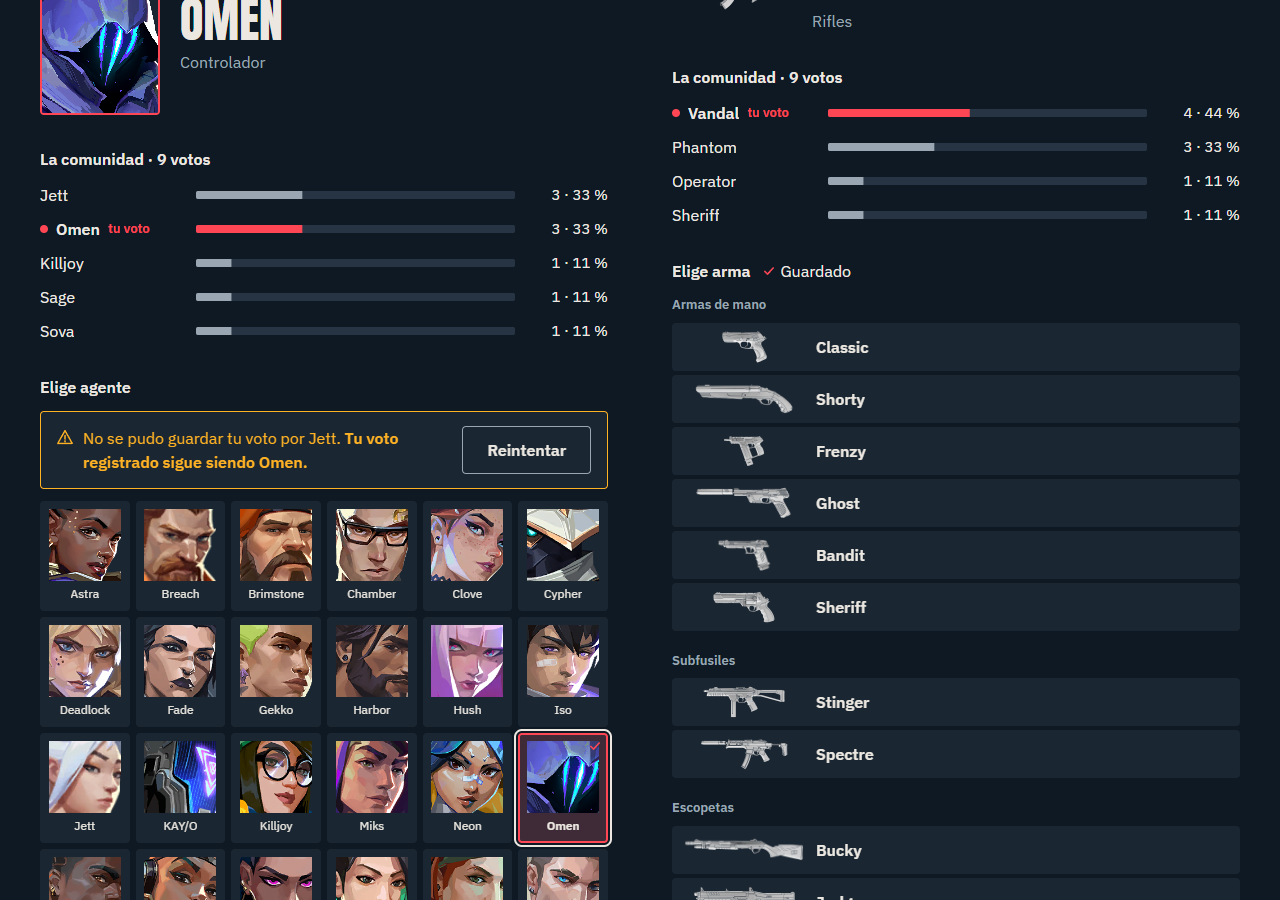
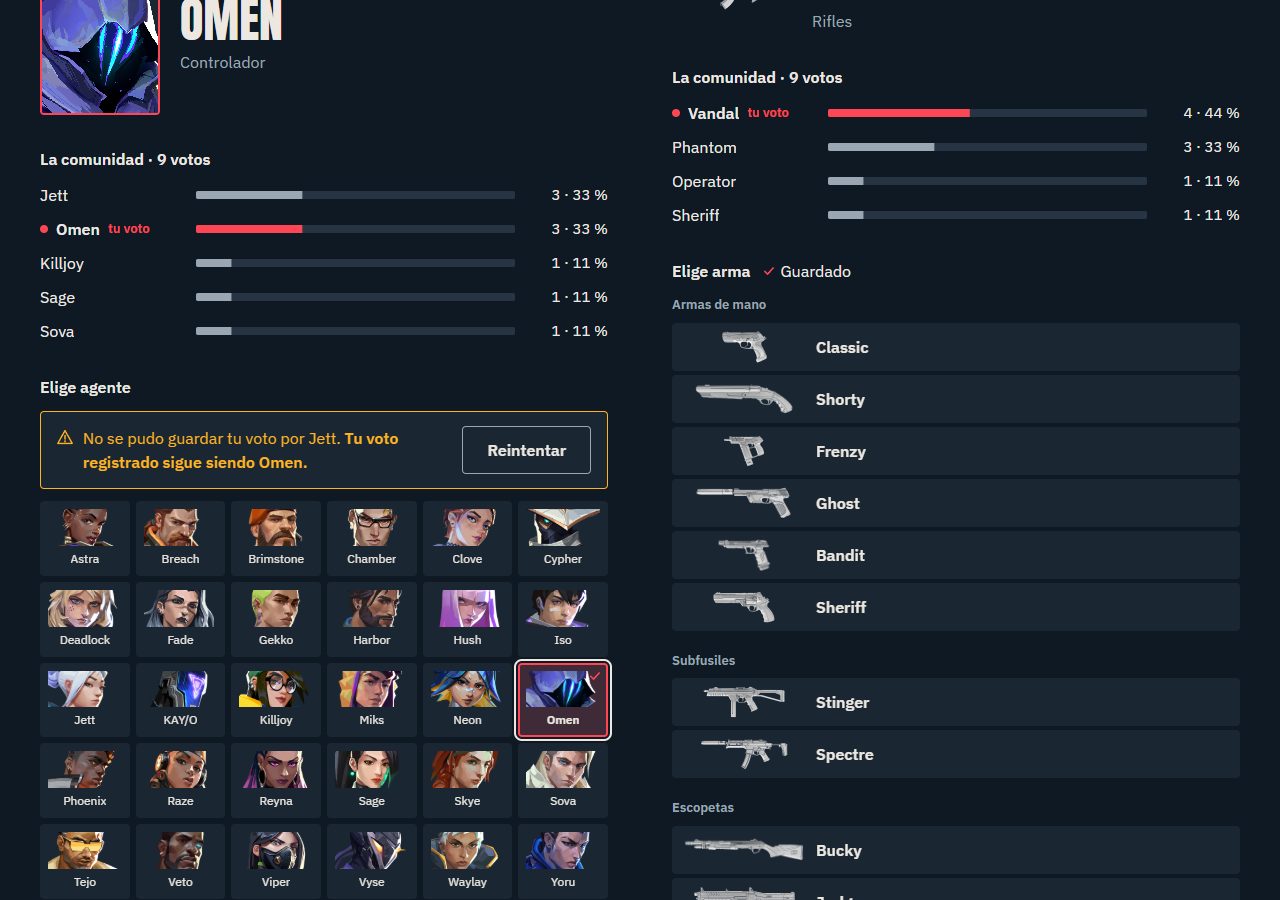
docs: README más completo y capturas actualizadas
Inicio rápido con la URL real y nota de Windows, cómo crear cuenta,
funcionalidades, stack, resumen de la API, solución de problemas y uso
de IA. Capturas regeneradas tras el login centrado y las caras completas.

Changed region(s): [[0.0312, 0.56, 0.5, 1.0]]

diff --git a/README.md b/README.md
@@ -1,57 +1,97 @@
 # Valorant Community
 
-Aplicación web para que la comunidad de VALORANT vote, en cada mapa competitivo, el mejor agente y la mejor arma, y consulte cómo se reparten los votos.
+Aplicación web para que la comunidad de VALORANT vote, en cada mapa competitivo, **el mejor agente y la mejor arma**, y vea cómo se reparten los votos.
 
-Prueba técnica full stack para Lucidbot: monorepo con **NestJS** (API) y **React + Vite** (web), **PostgreSQL**, **Docker Compose** y datos del juego de [Valorant API](https://valorant-api.com/).
+Prueba técnica full stack para Lucidbot: monorepo con **NestJS** (API) y **React + Vite** (web), **PostgreSQL**, **Docker Compose** y datos reales del juego de [Valorant API](https://valorant-api.com/).
 
-- Cualquier visitante explora los mapas y consulta los resultados. Para votar hay que crear una cuenta e iniciar sesión.
-- Cada usuario tiene una elección de agente y otra de arma por mapa, y puede cambiarlas por separado. Repetir el voto no suma; cambiarlo mueve el voto de la opción anterior a la nueva.
+![Detalle de Ascent tras cambiar el voto de agente a Omen](docs/capturas/escritorio-voto-cambiado.png)
 
-## Requisitos
+## Inicio rápido
 
-- Docker con Docker Compose v2 (Docker Desktop en Windows y macOS).
-- Puertos libres en tu máquina: `8080` (web) y `5433` (PostgreSQL, solo en `localhost`). Ambos se pueden cambiar en `.env`.
-- Conexión a internet: la API descarga el catálogo de Valorant API y el navegador carga las imágenes desde `media.valorant-api.com`.
-
-Para desarrollar o ejecutar las pruebas fuera de Docker hacen falta además Node.js 22 o superior y pnpm 11.
-
-## Puesta en marcha
+Solo necesitas **Docker** (Docker Desktop en Windows y macOS) y conexión a internet.
 
 ```bash
-git clone <url-del-repositorio> valorant-community
+git clone https://github.com/yhonaMC/valorant-community.git
 cd valorant-community
-cp .env.example .env
+cp .env.example .env          # en PowerShell o cmd: copy .env.example .env
 docker compose up --build --wait
 ```
 
-Abre <http://localhost:8080>.
+Abre **<http://localhost:8080>**.
 
-`--wait` devuelve el control cuando la base de datos, la API y la web están sanas. La API aplica las migraciones al arrancar; no hay pasos manuales.
+- `--wait` devuelve el control cuando la base de datos, la API y la web están sanas. Las migraciones se aplican solas al arrancar.
+- No hay usuarios precargados: pulsa **«Crear cuenta»** y usa un email con un dominio real (por ejemplo `@gmail.com`); la contraseña debe tener entre 8 y 72 caracteres.
+- Para parar: `docker compose down`. Para borrar también los datos: `docker compose down -v`.
 
-Para pararlo: `docker compose down`. Para borrar también los datos: `docker compose down -v`.
+### Recorrido sugerido (2 minutos)
 
-### Recorrido sugerido
+1. En la portada, elige un mapa. Sin sesión ya ves los resultados.
+2. Pulsa un agente: te lleva a crear una cuenta y luego te devuelve a ese mapa.
+3. Vota un agente y un arma; los recuentos y las barras se actualizan con la respuesta del servidor.
+4. Vuelve a pulsar el mismo agente: no suma. Elige otro: el voto se mueve del anterior al nuevo y el arma no cambia.
+5. Recarga la página o reinicia los contenedores: tu elección se conserva.
 
-1. En la portada, elige un mapa.
-2. Pulsa un agente: como no tienes sesión, te lleva a crear una cuenta y luego te devuelve a ese mapa.
-3. Vota un agente y un arma, y mira cómo cambian los resultados.
-4. Cambia tu agente: el voto se mueve de la opción anterior a la nueva. Recarga la página: tu elección se conserva.
+## Qué hace
+
+| | |
+|---|---|
+| **Explorar** | Los 13 mapas de la rotación competitiva, con su arte, y una página de detalle por mapa. |
+| **Votar** | Con sesión: un agente y un arma por mapa, modificables por separado. Repetir el voto no suma; cambiarlo lo mueve. |
+| **Resultados** | Barras horizontales con conteo y porcentaje, y un total independiente para agentes y armas. Tu opción siempre aparece, aunque no esté entre las cinco primeras. |
+| **Cuentas** | Registro e inicio de sesión con email y contraseña. El email debe tener un formato válido y un dominio que reciba correo (registro MX). |
+| **Errores** | Si un voto no se guarda, el aviso dice qué voto sigue registrado y ofrece Reintentar. Si Valorant API cae, se sigue sirviendo la última copia del catálogo. |
+| **Accesibilidad** | Selección con teclado, foco visible, anuncios para lectores de pantalla y respeto a «reducir movimiento». Funciona desde 360 px de ancho. |
+
+<table>
+  <tr>
+    <td width="60%"><img src="docs/capturas/escritorio-portada.png" alt="Portada con los mapas competitivos"></td>
+    <td><img src="docs/capturas/movil-resumen-fijo.png" alt="Detalle de un mapa en móvil con el resumen de tus votos fijo"></td>
+  </tr>
+</table>
+
+Más capturas en [docs/capturas/](docs/capturas/): acceso con errores, error al guardar, tu fila fuera del top 5 y la página completa en móvil.
+
+## Stack
+
+| Capa | Tecnología |
+|---|---|
+| API | NestJS 11, Prisma 6, PostgreSQL 16, class-validator |
+| Web | React 19, Vite 7, React Router 7, TanStack Query 5, CSS Modules |
+| Sesión | JWT en cookie `HttpOnly` + `SameSite=Lax`, contraseñas con `scrypt` |
+| Infraestructura | Docker Compose (db, api, web con nginx), monorepo pnpm |
+| Pruebas | Jest + supertest (e2e contra PostgreSQL real) |
+
+nginx sirve la web y reenvía `/api` a la API, así que todo vive en el mismo origen: sin CORS y con la cookie funcionando igual en Docker y en desarrollo.
+
+## API
+
+| Método y ruta | Sesión | Descripción |
+|---|---|---|
+| `POST /api/auth/register` · `login` · `logout` | — | Crear cuenta, iniciar y cerrar sesión |
+| `GET /api/auth/me` | sí | Usuario actual |
+| `GET /api/catalog` | — | Mapas, agentes y armas (recortados de Valorant API) |
+| `GET /api/maps/:mapId/results` | opcional | Recuentos por categoría y, con sesión, tus votos |
+| `PUT /api/maps/:mapId/votes/:category` | sí | Votar o cambiar el voto (`agent` o `weapon`) |
+
+Códigos de respuesta, modelo de datos y decisiones de seguridad en [docs/ARCHITECTURE.md](docs/ARCHITECTURE.md).
 
 ## Variables de entorno
 
-Todas están en `.env.example`, con valores de ejemplo válidos para ejecutar en local. No hay secretos reales en el repositorio.
+Todas están en `.env.example`, con valores válidos para ejecutar en local. No hay secretos reales en el repositorio.
 
 | Variable | Uso |
 |---|---|
 | `POSTGRES_USER`, `POSTGRES_PASSWORD`, `POSTGRES_DB` | Credenciales y nombre de la base de datos del contenedor `db`. |
 | `DB_PORT` | Puerto de PostgreSQL en tu máquina (solo `localhost`). Por defecto `5433`. |
-| `DATABASE_URL` | Solo para ejecutar la API o las pruebas fuera de Docker. Dentro de Docker, `docker-compose.yml` construye su propia URL. |
+| `DATABASE_URL` | Solo para ejecutar la API o las pruebas fuera de Docker. |
 | `JWT_SECRET` | Firma de la cookie de sesión. **Cámbialo** por una cadena larga y aleatoria. La API no arranca sin él. |
-| `APP_ORIGIN` | Orígenes desde los que se aceptan escrituras, separados por comas. Si abres la aplicación en otra dirección (por ejemplo `http://127.0.0.1:8080`) o cambias `WEB_PORT`, añádela aquí; si no, el registro y los votos devuelven 403. La API no arranca sin esta variable. |
+| `APP_ORIGIN` | Orígenes desde los que se aceptan escrituras, separados por comas. La API no arranca sin él. |
 | `COOKIE_SECURE` | `true` solo si la aplicación se sirve por HTTPS. |
 | `WEB_PORT` | Puerto de la web en tu máquina. Por defecto `8080`. |
 
 ## Desarrollo y pruebas
+
+Fuera de Docker hacen falta Node.js 22 o superior y pnpm 11.
 
 ```bash
 pnpm install
@@ -63,10 +103,25 @@ pnpm dev:web                       # web en http://localhost:5173 (proxy de /api
 Pruebas e2e de la API (necesitan PostgreSQL en marcha):
 
 ```bash
-pnpm test:api
+pnpm test:api                      # 27 pruebas
 ```
 
-Usan una base de datos aparte (`valorant_test`), que crean y migran ellas mismas; no tocan los datos de la aplicación. Sustituyen Valorant API por respuestas fijas, así que no dependen de la red. Cubren el registro y el login (incluido el rechazo de dominios de email sin correo), la cookie, la protección de escrituras, el voto duplicado y concurrente, el cambio de voto, la agregación por mapa, los identificadores inválidos y la caída de Valorant API.
+Usan su propia base de datos (`valorant_test`), que crean y migran ellas mismas, y sustituyen Valorant API y el DNS por respuestas fijas: no tocan tus datos ni dependen de la red. Cubren:
+- registro y login, incluido el rechazo de dominios de email sin correo;
+- la cookie de sesión y la protección de escrituras (`Origin` y `Content-Type`);
+- el voto repetido y 10 votos concurrentes, que dejan una sola fila;
+- el cambio de voto sin tocar la otra categoría ni otros mapas;
+- la agregación por mapa, los identificadores inválidos y la caída de Valorant API.
+
+## Solución de problemas
+
+| Síntoma | Causa y solución |
+|---|---|
+| `port is already allocated` | El puerto `8080` o `5433` está ocupado. Cambia `WEB_PORT` o `DB_PORT` en `.env`. |
+| Registrarse o votar devuelve **403** | Abriste la app en una dirección que no está en `APP_ORIGIN` (por ejemplo `http://127.0.0.1:8080`, o cambiaste `WEB_PORT`). Añádela a `APP_ORIGIN` y ejecuta de nuevo `docker compose up -d`. |
+| «No pudimos cargar los mapas de VALORANT…» | La API no pudo descargar el catálogo de Valorant API (sin internet o servicio caído). Pulsa Reintentar cuando vuelva la conexión. |
+| «Ese dominio de correo no existe o no recibe emails» | El dominio del email no tiene servidor de correo. Usa un email real. |
+| `Cannot connect to the Docker daemon` | Docker Desktop no está abierto. |
 
 ## Estructura
 
@@ -74,29 +129,30 @@ Usan una base de datos aparte (`valorant_test`), que crean y migran ellas mismas
 apps/
   api/    NestJS: auth/, catalog/, votes/; prisma/ con el esquema y las migraciones; test/ con las e2e
   web/    React + Vite: features/auth, features/maps, features/map-detail; nginx.conf para Docker
-docs/     Arquitectura y uso de IA
+docs/     Arquitectura, uso de IA y capturas
 PLAN.md   Plan de trabajo, decisiones y registro por hitos
 ```
 
-La documentación técnica está en [docs/ARCHITECTURE.md](docs/ARCHITECTURE.md), el uso de IA en [docs/AI.md](docs/AI.md) y las capturas en [docs/capturas/](docs/capturas/).
+## Uso de IA
 
-![Detalle de un mapa tras cambiar el voto](docs/capturas/escritorio-voto-cambiado.png)
+Desarrollado con Claude Code y agentes con un reparto explícito: yo tomé las decisiones de producto, diseño y alcance, y validé cada hito; los agentes investigaron e implementaron tareas acotadas, con el contrato de la API fijado antes de trabajar en paralelo en `apps/api` y `apps/web`. La interfaz se revisó con Impeccable (`critique` y `audit`). Qué acepté, qué corregí y cómo lo validé está en [docs/AI.md](docs/AI.md); el registro por hito, en [PLAN.md](PLAN.md).
 
 ## Decisiones de alcance
 
 - **Mapas:** solo los 13 de la rotación competitiva. Valorant API no los marca; se identifican porque son los únicos con `tacticalDescription`.
 - **Armas:** 20, sin el arma cuerpo a cuerpo.
 - **Votos:** no se puede retirar un voto, solo cambiarlo.
+- **Resultados públicos:** cualquiera puede verlos; solo votar exige sesión.
 
 ## No implementado
 
 - Revocación de sesiones en el servidor: cerrar sesión borra la cookie, pero un token copiado sigue siendo válido hasta que caduca (7 días).
 - Límite de intentos de inicio de sesión.
-- Verificación del email por correo. El registro comprueba el formato y que el dominio exista y reciba correo (registro MX), pero no que el buzón exista.
+- Verificación del email por correo: se comprueba el formato y que el dominio reciba correo, no que el buzón exista.
 - Retirar un voto.
 - Agrupar los agentes por rol en el selector.
 - Conservar el agente que eligió un visitante después de iniciar sesión (vuelve al mapa, pero tiene que elegirlo de nuevo).
-- Pruebas automáticas del frontend. La interfaz se recorrió en un navegador real (Chrome headless) en escritorio y móvil, con teclado, con un error del servidor simulado y con movimiento reducido, y se revisó con Impeccable; ver `PLAN.md`, hito H6.
+- Pruebas automáticas del frontend. La interfaz se recorrió en un navegador real (Chrome headless) en escritorio y móvil, con teclado, con un error del servidor simulado y con movimiento reducido; ver `PLAN.md`, hito H6.
 
 ## Límites conocidos
 
@@ -105,4 +161,4 @@ La documentación técnica está en [docs/ARCHITECTURE.md](docs/ARCHITECTURE.md)
 
 ## Nota
 
-Proyecto no oficial, sin fines comerciales, hecho solo para una evaluación técnica. VALORANT y su arte pertenecen a Riot Games; las imágenes se cargan directamente desde Valorant API y no se incluyen en el repositorio, salvo en las capturas de pantalla de `docs/capturas/`.
+Proyecto no oficial, sin fines comerciales, hecho solo para una evaluación técnica. VALORANT y su arte pertenecen a Riot Games; las imágenes se cargan directamente desde Valorant API y no se incluyen en el repositorio, salvo en las capturas de `docs/capturas/`.
